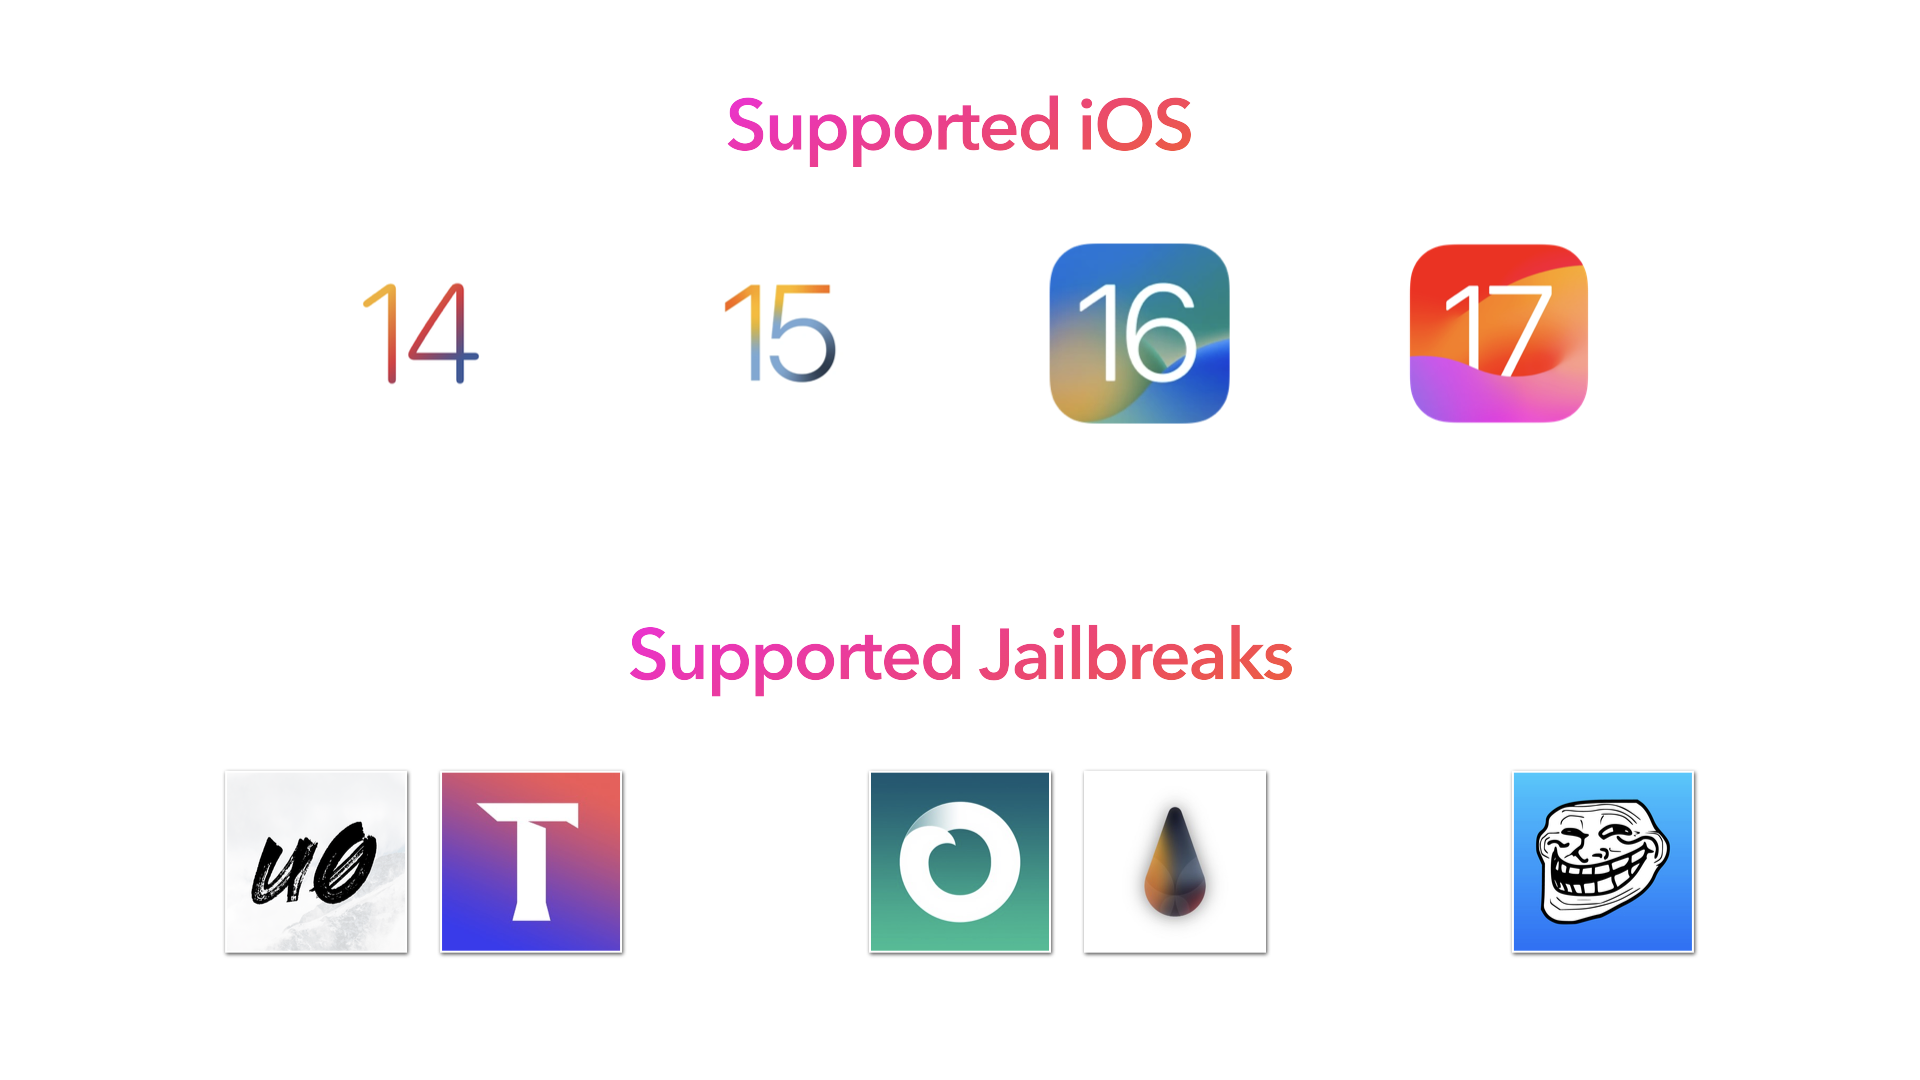
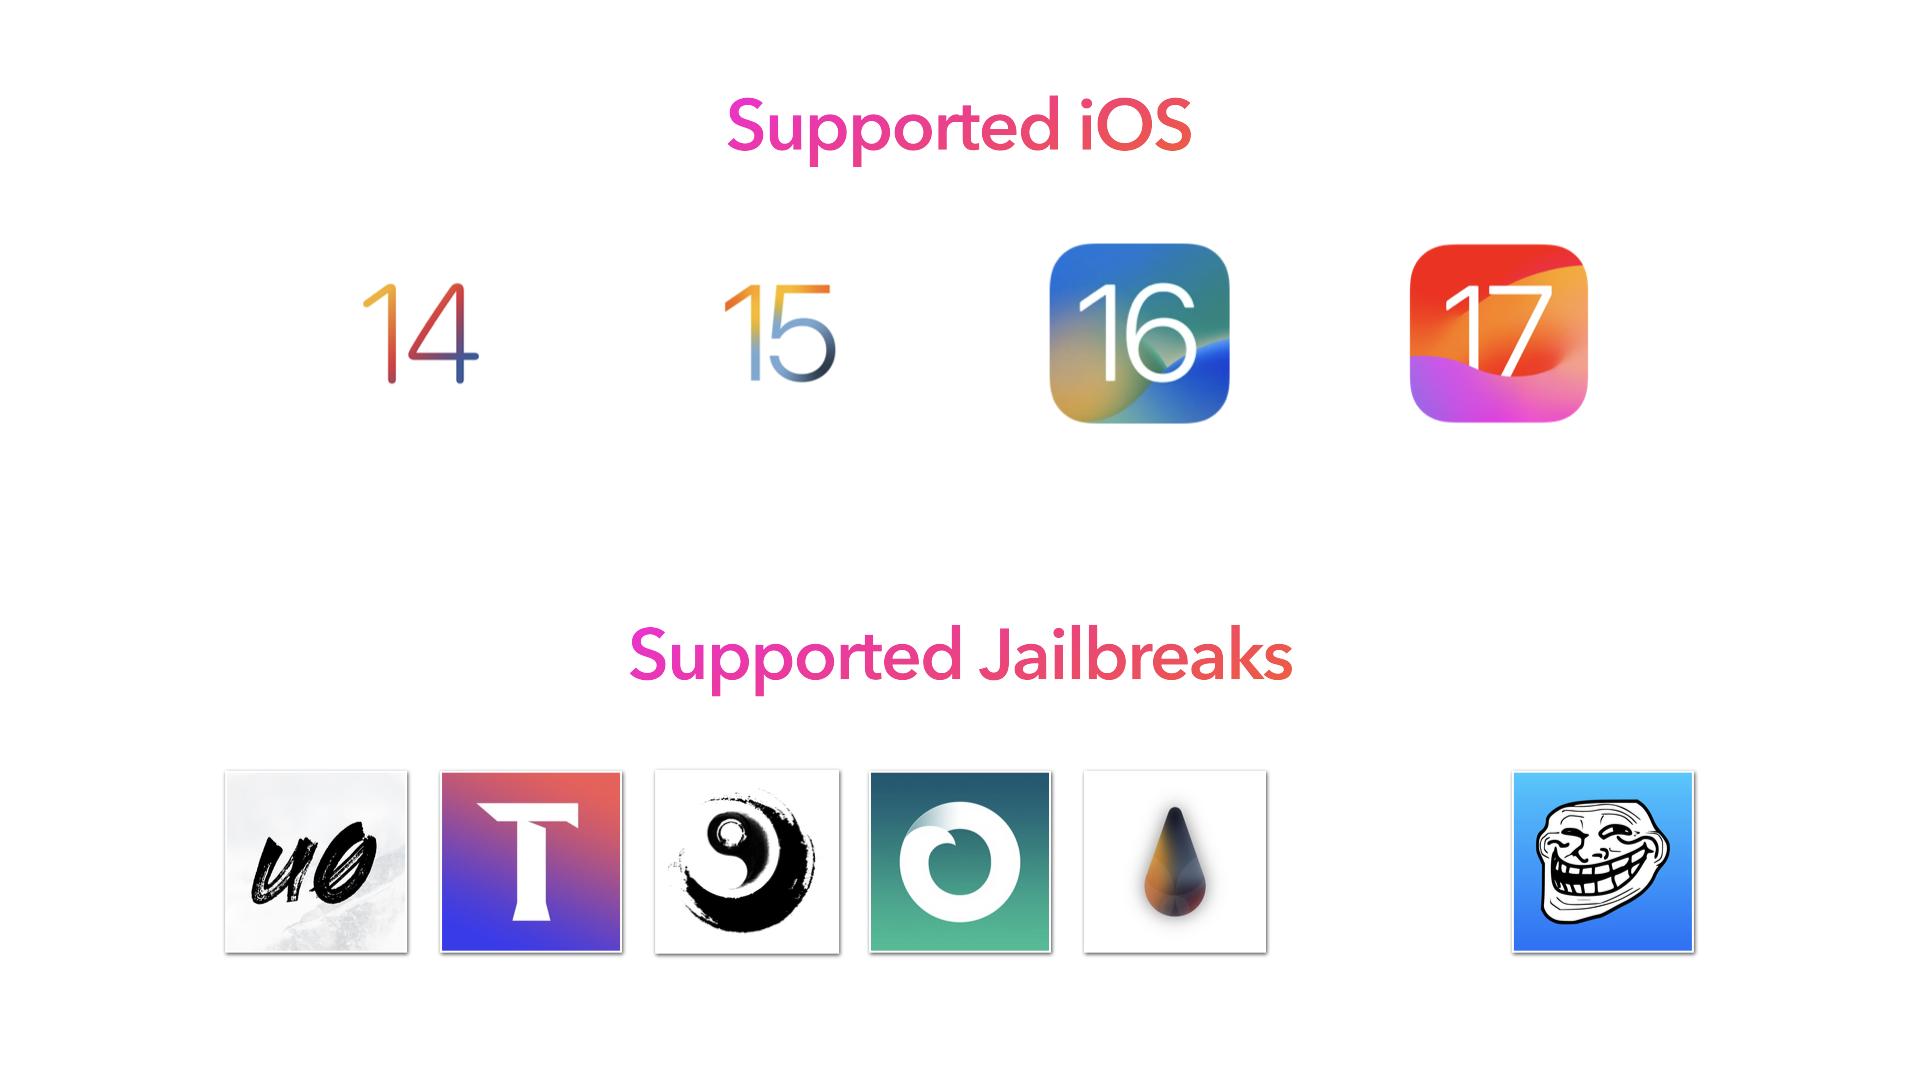
add xina

Changed region(s): [[0.3438, 0.7333, 0.4375, 0.8861]]

diff --git a/src/pages/index.module.css b/src/pages/index.module.css
@@ -320,27 +320,32 @@
 
 .compatList {
   display: grid;
-  grid-template-columns: repeat(2, 160px);
+  grid-template-columns: repeat(2, 160px); /* 2+2+2 on small */
   gap: 2rem;
   margin: 2rem auto;
-  max-width: 1000px;
-  justify-content: center;
-  /* center the grid within container */
-  justify-items: center;
-  /* center items in each cell */
+  max-width: 1120px; /* allow 6 columns (6*160 + gaps) */
+  justify-content: center; /* center the grid within container */
+  justify-items: center; /* center items in each cell */
 }
 
-/* Medium screens: 3 columns => rows become 3+2 for 5 items */
+/* ≥640px: 3 columns => 3+3 */
 @media (min-width: 640px) {
   .compatList {
     grid-template-columns: repeat(3, 160px);
   }
 }
 
-/* Large screens: 5 columns => 5 items on one row */
+/* ≥960px: 4 columns => 4+2 */
 @media (min-width: 960px) {
   .compatList {
-    grid-template-columns: repeat(5, 160px);
+    grid-template-columns: repeat(4, 160px);
+  }
+}
+
+/* ≥1200px: 6 columns => 6 in 1 row */
+@media (min-width: 1200px) {
+  .compatList {
+    grid-template-columns: repeat(6, 160px);
   }
 }
 

diff --git a/src/pages/index.tsx b/src/pages/index.tsx
@@ -493,6 +493,21 @@ function HomepageCompatibility() {
             <span>Taurine</span>
           </a>
           <a
+            href="https://zhuxinlang.github.io"
+            target="_blank"
+            rel="noopener noreferrer"
+            className={styles.jailbreakItem}
+          >
+            <div className={styles.jailbreakIconWrapper}>
+              <img
+                src={useBaseUrl("img/xinaa15.png")}
+                alt="XinaA15"
+                className={styles.jailbreakIcon}
+              />
+            </div>
+            <span>XinaA15</span>
+          </a>
+          <a
             href="https://palera.in"
             target="_blank"
             rel="noopener noreferrer"
